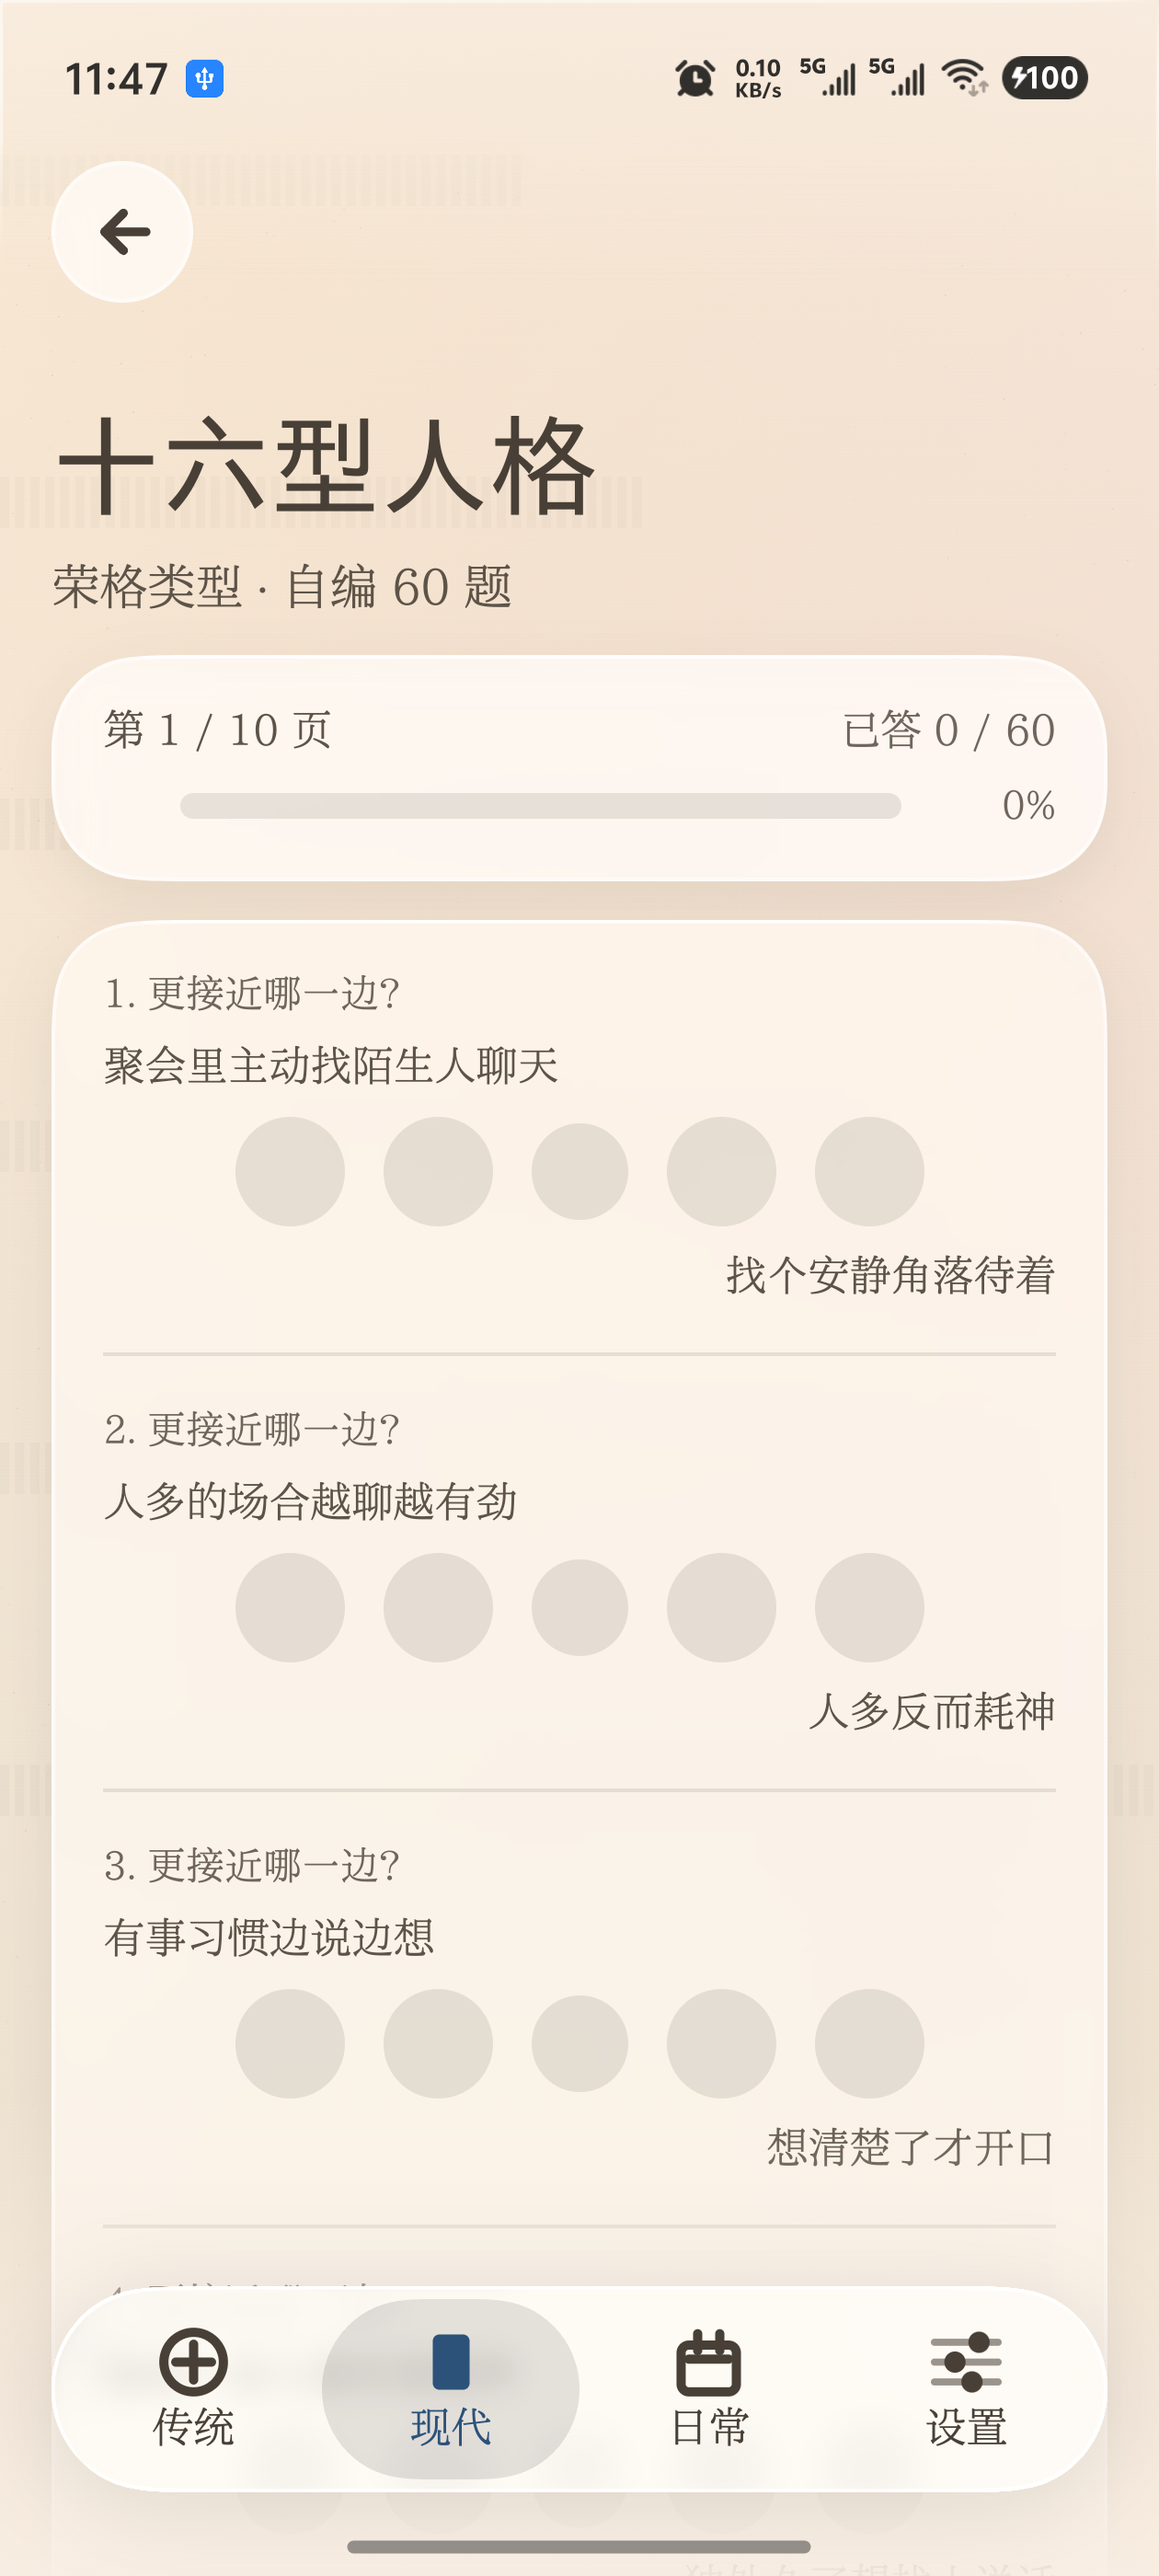
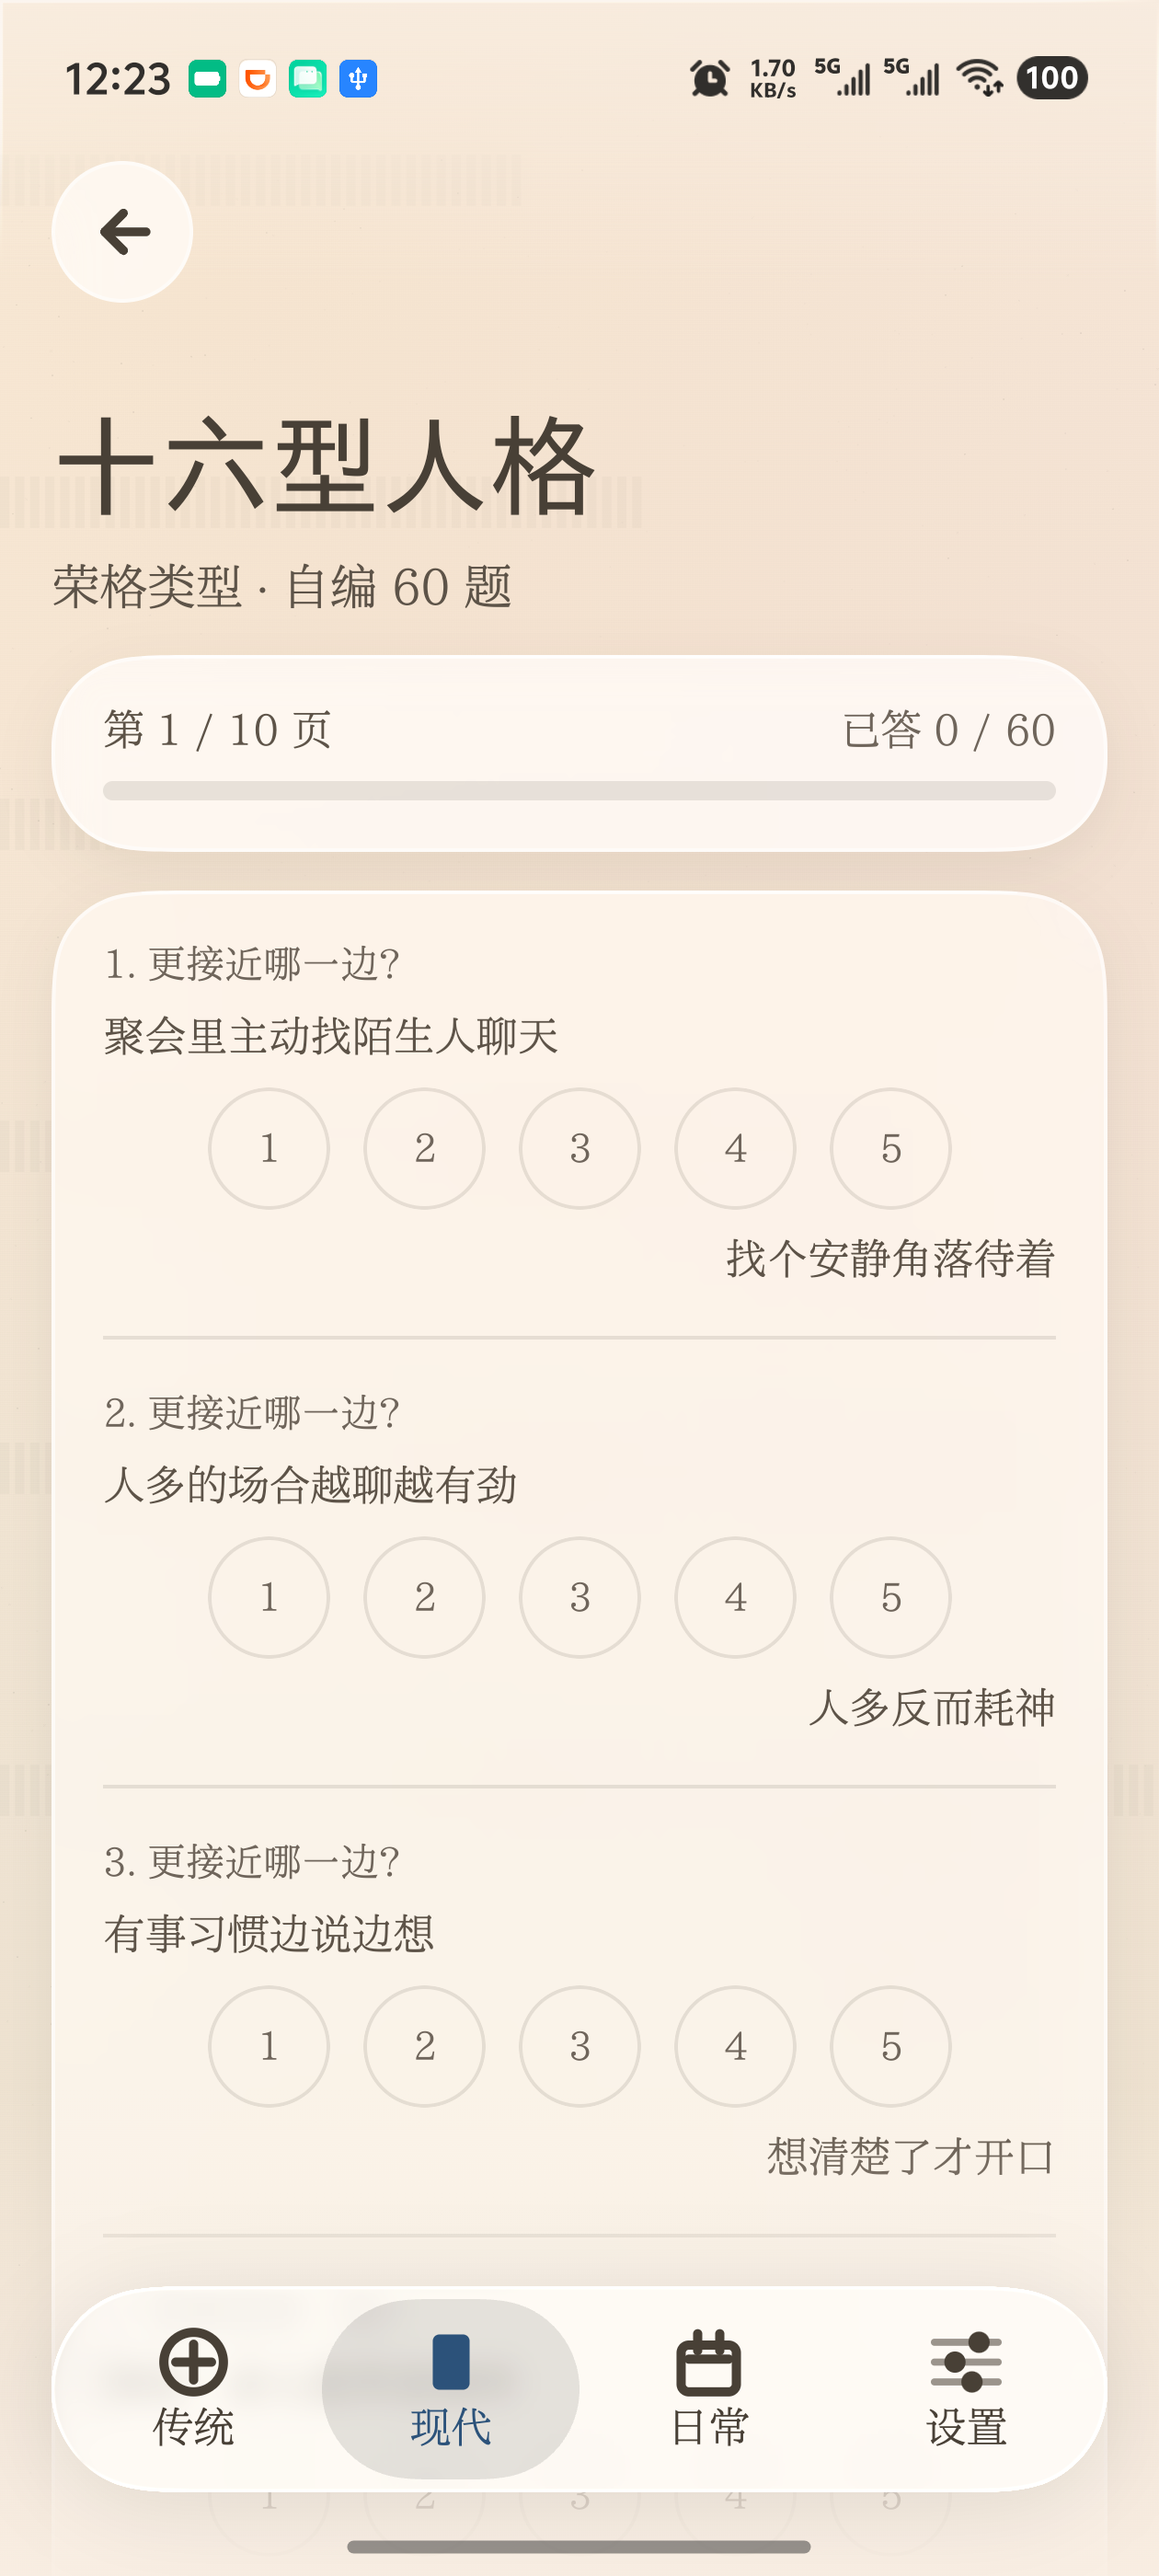
fix(personality): 五点量表与进度区重做
用户指出十六型的 UI 不对，真机看截图确认三处缺陷：

1. **五个圆点大小不一** —— 原实现把中间那个做成 30dp、其余 34dp，
   想表达「3 是中间值」，结果排出来参差不齐，像没对齐。
2. **没有可点暗示** —— 全实心灰圆，用户看不出能点。
3. **进度区重复** —— 「已答 0 / 60」与 MagicMetricBar 自带的「0%」挤在右边缘。

改法
- 圆点统一 38dp、间距 10dp、编号 1..5 常驻显示（选中时反白加粗）
- 未选中改为**透明底 + 1dp 描边**，一眼看出是可选控件
- 进度条自绘（Box + 两层 fillMaxWidth），不用 MagicMetricBar ——
  它自带百分比读数会和「已答 n/60」重复；
  而把计数塞进它的 label 又会被挤成一字一行（label 栏宽度不够）。

中间踩了一次坑：先用 `MagicMetricBar(label = "已答 n/60")`，
真机截图显示被挤成「已/答/0/60」竖排，才改成自绘。

全量测试 255 用例 / 0 失败，真机零崩溃。

diff --git a/feature/personality/src/main/java/com/maohongyuan/magic/feature/personality/PersonalityScreen.kt b/feature/personality/src/main/java/com/maohongyuan/magic/feature/personality/PersonalityScreen.kt
@@ -2,12 +2,15 @@ package com.maohongyuan.magic.feature.personality
 
 import androidx.compose.foundation.ScrollState
 import androidx.compose.foundation.background
+import androidx.compose.ui.graphics.Color
+import androidx.compose.foundation.border
 import androidx.compose.foundation.clickable
 import androidx.compose.foundation.layout.Arrangement
 import androidx.compose.foundation.layout.Box
 import androidx.compose.foundation.layout.Column
 import androidx.compose.foundation.layout.Row
 import androidx.compose.foundation.layout.Spacer
+import androidx.compose.foundation.layout.fillMaxHeight
 import androidx.compose.foundation.layout.fillMaxWidth
 import androidx.compose.foundation.layout.height
 import androidx.compose.foundation.layout.padding
@@ -59,6 +62,7 @@ private const val PAGE_SIZE = 6
 @Composable
 fun PersonalityScreen(scrollState: ScrollState) {
     val colors = LocalMagicColors.current
+    val shapes = LocalMagicShapes.current
 
     val answers = remember { mutableStateMapOf<Int, Int>() }
     var page by remember { mutableIntStateOf(0) }
@@ -100,11 +104,24 @@ fun PersonalityScreen(scrollState: ScrollState) {
                 )
             }
             Spacer(Modifier.height(MagicSpacing.sm))
-            MagicMetricBar(
-                label = "",
-                ratio = answers.size.toFloat() / questions.size,
-                color = colors.accent,
-            )
+            // 进度条自己画，不用 MagicMetricBar ——
+            // 它自带百分比读数，会和上面的「已答 n/60」重复；
+            // 而把计数塞进它的 label 又会被挤成一字一行（label 栏宽度不够）。
+            Box(
+                modifier = Modifier
+                    .fillMaxWidth()
+                    .height(6.dp)
+                    .clip(shapes.pill)
+                    .background(colors.divider),
+            ) {
+                Box(
+                    modifier = Modifier
+                        .fillMaxWidth(answers.size.toFloat() / questions.size)
+                        .fillMaxHeight()
+                        .clip(shapes.pill)
+                        .background(colors.accent),
+                )
+            }
         }
 
         // ── 本页题目 ──
@@ -203,23 +220,28 @@ private fun QuestionRow(
             repeat(5) { i ->
                 val choice = i + 1
                 val on = selected == choice
+                // 统一尺寸 + 描边：原实现把中间那个做小 4dp，排出来参差不齐；
+                // 且全实心灰没有任何可点暗示，用户不知道能点。
                 Box(
                     modifier = Modifier
-                        .padding(horizontal = 6.dp)
-                        .size(if (choice == 3) 30.dp else 34.dp)
+                        .padding(horizontal = 5.dp)
+                        .size(38.dp)
                         .clip(shapes.pill)
-                        .background(if (on) colors.accent else colors.divider)
+                        .background(if (on) colors.accent else Color.Transparent)
+                        .border(
+                            width = if (on) 0.dp else 1.dp,
+                            color = if (on) Color.Transparent else colors.divider,
+                            shape = shapes.pill,
+                        )
                         .clickable { onSelect(choice) },
                     contentAlignment = Alignment.Center,
                 ) {
-                    if (on) {
-                        Text(
-                            text = "$choice",
-                            fontSize = MagicType.caption.sp,
-                            fontWeight = FontWeight.Bold,
-                            color = colors.backdropBase,
-                        )
-                    }
+                    Text(
+                        text = "$choice",
+                        fontSize = MagicType.caption.sp,
+                        fontWeight = if (on) FontWeight.Bold else FontWeight.Normal,
+                        color = if (on) colors.backdropBase else colors.tertiaryText,
+                    )
                 }
             }
         }
